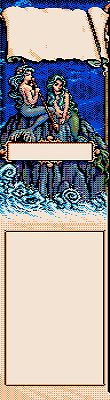
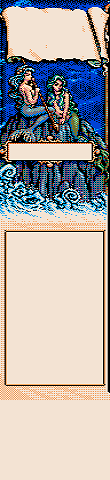
customize gui  OK

diff --git a/src/client/gui.py b/src/client/gui.py
@@ -1,7 +1,6 @@
 import pygame_gui
 import pygame
 
-
 from dialogs.login_dialog import LoginDialog
 from dialogs.create_account_dialog import CreateAccountDialog
 
@@ -10,7 +9,10 @@ class Gui:
     def __init__(self, client):
         self.client = client
 
-        self.mgr = pygame_gui.UIManager((800, 600), '../../data/fonts/font_theme.json')
+        self.mgr = pygame_gui.UIManager(
+            (800, 600),
+            r'D:\data\code\python\project_mount_christ\data\fonts\font_theme.json',
+        )
 
         self.login_diglog = LoginDialog(self.mgr, client)
         self.options_dialog = None

diff --git a/src/client/dialogs/chat_dialog.py b/src/client/dialogs/chat_dialog.py
@@ -18,8 +18,10 @@ class ChatDialog(MyUIConsoleWindow):
         self.mgr = mgr
         self.client = client
         super().__init__(
-            rect=pygame.rect.Rect((90, 280), (400, 160)),
-            manager=mgr)
+            rect=pygame.rect.Rect((90, 295), (400, 160)),
+            manager=mgr,
+            object_id='#console_window'
+        )
 
 
     def process_event(self, event: pygame.event.Event) -> bool:

diff --git a/src/client/dialogs/options_dialog.py b/src/client/dialogs/options_dialog.py
@@ -27,8 +27,9 @@ class OptionsDialog:
 
         # add ui window
         self.ui_window = pygame_gui.elements.UIWindow(
-            rect=pygame.Rect((-20, c.WINDOW_HEIGHT - 100 + 5), (c.WINDOW_WIDTH + 40, 50 + 70)),
+            rect=pygame.Rect((-20 + 5, c.WINDOW_HEIGHT - 100 + 30), (c.WINDOW_WIDTH + 40, 50)),
             manager=self.mgr,
+            object_id='#options_window',
         )
 
         # buttons to add

diff --git a/src/client/my_ui_console_window.py b/src/client/my_ui_console_window.py
@@ -39,7 +39,9 @@ class MyUIConsoleWindow(UIWindow):
                          window_display_title=window_title,
                          object_id=object_id,
                          resizable=True,
-                         visible=visible)
+                         visible=visible,
+                         )
+
 
         self.default_log_prefix = '> '
         self.log_prefix = self.default_log_prefix

diff --git a/src/client/my_ui_elements.py b/src/client/my_ui_elements.py
@@ -30,6 +30,7 @@ class MyMenuWindow:
             rect=pygame.Rect((c.WINDOW_WIDTH - 265, 120), (280, 300)),
             manager=mgr,
             window_display_title=title,
+            object_id='#menu_window'
         )
 
         worlds_menu = pygame_gui.elements.UISelectionList(

diff --git a/src/tests/test.py b/src/tests/test.py
@@ -1,0 +1,7 @@
+"images":
+{
+    "normal_image": {
+        "package": "../../data/imgs/ship_in_battle",
+        "resource": "ne.png"
+    }
+}
